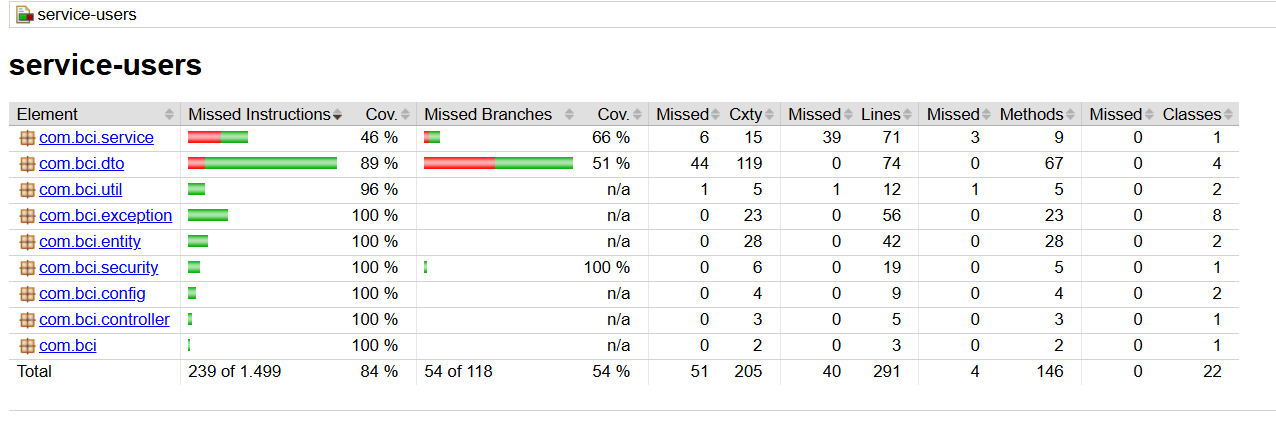
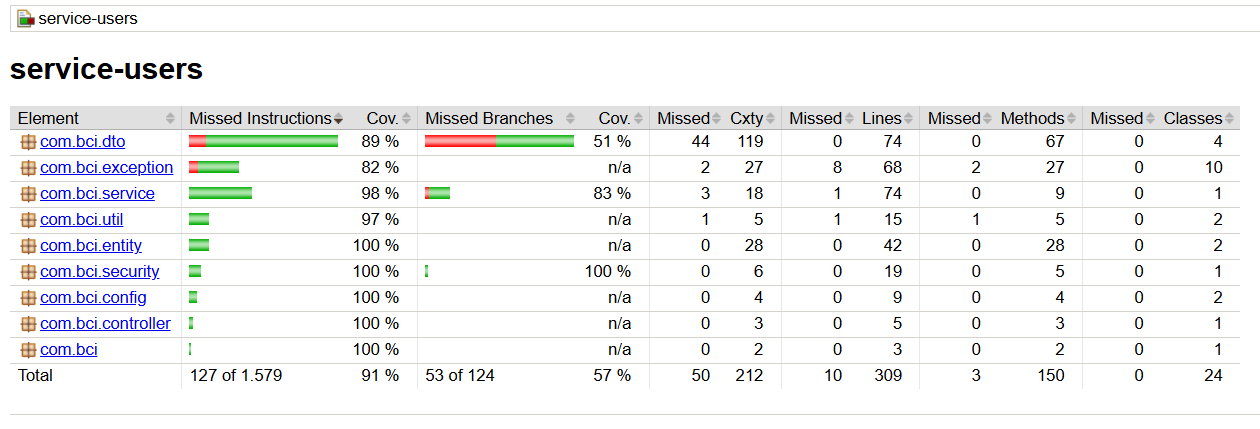
increasing test coverage

Changed region(s): [[0.0, 0.2121, 0.9905, 0.9091], [0.0, 0.0, 1.0, 0.0909], [0.0, 0.1212, 0.1857, 0.1818]]

diff --git a/service-users/src/test/java/com/bci/service/UserServiceTest.java b/service-users/src/test/java/com/bci/service/UserServiceTest.java
@@ -6,10 +6,14 @@ import static org.junit.jupiter.api.Assertions.assertThrows;
 import static org.junit.jupiter.api.Assertions.assertTrue;
 import static org.mockito.ArgumentMatchers.any;
 import static org.mockito.ArgumentMatchers.anyString;
+import static org.mockito.Mockito.doNothing;
+import static org.mockito.Mockito.doReturn;
 import static org.mockito.Mockito.when;
 
 import java.time.LocalDateTime;
 import java.util.Arrays;
+import java.util.Collections;
+import java.util.List;
 import java.util.Optional;
 import java.util.UUID;
 
@@ -18,27 +22,32 @@ import org.junit.jupiter.api.Test;
 import org.mockito.InjectMocks;
 import org.mockito.Mock;
 import org.mockito.MockitoAnnotations;
+import org.mockito.Spy;
 import org.springframework.security.crypto.bcrypt.BCryptPasswordEncoder;
 
+import com.bci.dto.LoginResponseDTO;
 import com.bci.dto.PhoneDTO;
 import com.bci.dto.UserDTO;
 import com.bci.dto.UserResponseDTO;
+import com.bci.entity.Phone;
 import com.bci.entity.User;
 import com.bci.exception.InvalidEmailFormatException;
 import com.bci.exception.InvalidPasswordFormatException;
 import com.bci.exception.InvalidTokenException;
+import com.bci.exception.TokenGenerationException;
 import com.bci.exception.UserAlreadyExistsException;
+import com.bci.exception.UserCreationException;
 import com.bci.exception.UserNotFoundException;
 import com.bci.repository.UserRepository;
 import com.bci.security.JwtUtil;
 import com.bci.util.Message;
-import com.bci.util.PatternConstants;
 
 public class UserServiceTest {
 
 	@Mock
 	private UserRepository userRepository;
 
+	@Spy
 	@InjectMocks
 	private UserService userService;
 
@@ -60,6 +69,90 @@ public class UserServiceTest {
 		userDTO.setName("Test User");
 		userDTO.setPhones(Arrays.asList(new PhoneDTO(1234567890L, 1, "1")));
 	}	
+	
+	@Test
+	void loginUser_shouldReturnLoginResponse_whenTokenIsValid() {
+	    // Arrange
+	    String bearerToken = "Bearer abc.def.ghi";
+	    String rawToken = "abc.def.ghi";
+	    UUID userId = UUID.randomUUID();
+
+	    User user = new User();
+	    user.setId(userId);
+	    user.setName("Jane Doe");
+	    user.setEmail("jane@example.com");
+	    user.setPassword("securePass123");
+	    user.setCreated(LocalDateTime.of(2023, 1, 1, 12, 0));
+	    user.setIsActive(true);
+
+	    Phone phone = new Phone();
+	    phone.setPhoneNumber(123456789L);
+	    phone.setCitycode(1);
+	    phone.setCountrycode("57");
+
+	    user.setPhones(List.of(phone));
+
+	    String newGeneratedToken = "new.jwt.token";
+
+	    // Mocks
+	    when(jwtUtil.extractUserId(rawToken)).thenReturn(userId);
+	    when(userRepository.findById(userId)).thenReturn(Optional.of(user));
+	    when(jwtUtil.generateToken(user)).thenReturn(newGeneratedToken);
+	    when(userRepository.save(any(User.class))).thenReturn(user);
+
+	    // Act
+	    LoginResponseDTO response = userService.loginUser(bearerToken);
+
+	    // Assert
+	    assertNotNull(response);
+	    assertEquals(userId, response.getId());
+	    assertEquals(user.getCreated(), response.getCreated());
+	    assertNotNull(response.getLastLogin());
+	    assertEquals(newGeneratedToken, response.getToken());
+	    assertTrue(response.getIsActive());
+	    assertEquals(user.getName(), response.getName());
+	    assertEquals(user.getEmail(), response.getEmail());
+	    assertEquals(user.getPassword(), response.getPassword());
+	    assertEquals(1, response.getPhones().size());
+	    assertEquals(phone.getPhoneNumber(), response.getPhones().get(0).getNumber());
+	    assertEquals(phone.getCitycode(), response.getPhones().get(0).getCitycode());
+	    assertEquals(phone.getCountrycode(), response.getPhones().get(0).getContrycode());
+	}
+	
+	@Test
+	public void testCreateUser_WithPhones() {
+	    // Arrange
+	    UserDTO userDTO = new UserDTO();
+	    userDTO.setName("John");
+	    userDTO.setEmail("john@example.com");
+	    userDTO.setPassword("password123");
+
+	    PhoneDTO phoneDTO = new PhoneDTO();
+	    phoneDTO.setNumber(123456789L);
+	    phoneDTO.setCitycode(1);
+	    phoneDTO.setContrycode("54");
+	    userDTO.setPhones(Collections.singletonList(phoneDTO));
+
+	    // Act
+	    User user = userService.createUser(userDTO);
+
+	    // Assert
+	    assertNotNull(user);
+	    assertEquals(userDTO.getName(), user.getName());
+	    assertEquals(userDTO.getEmail(), user.getEmail());
+	    assertTrue(user.getIsActive());
+	    assertNotNull(user.getCreated());
+	    assertNotNull(user.getLastLogin());
+
+	    assertNotNull(user.getPhones());
+	    assertEquals(1, user.getPhones().size());
+
+	    Phone phone = user.getPhones().get(0);
+	    assertEquals(phoneDTO.getNumber(), phone.getPhoneNumber());
+	    assertEquals(phoneDTO.getCitycode(), phone.getCitycode());
+	    assertEquals(phoneDTO.getContrycode(), phone.getCountrycode());
+	    assertEquals(user, phone.getUser()); // validamos la relación inversa
+	}
 	
 	// Test para loginUser con token inválido
     @Test
@@ -123,6 +216,59 @@ public class UserServiceTest {
         assertEquals(user.getCreated(), response.getCreated());
         assertEquals(user.getLastLogin(), response.getLastLogin());
         assertEquals(token, response.getToken());
+    }
+    
+    @Test
+    void registerUser_shouldThrowUserCreationException_whenUserIsNull() {
+        // Arrange
+        UserDTO userDTO = new UserDTO();
+        userDTO.setName("John");
+        userDTO.setEmail("john@example.com");
+        userDTO.setPassword("ValidPass123");
+
+        // Mock: createUser devuelve null
+        doReturn(null).when(userService).createUser(userDTO);
+
+        // Act & Assert
+        UserCreationException exception = assertThrows(UserCreationException.class, () -> {
+            userService.registerUser(userDTO);
+        });
+
+        assertEquals(Message.USER_CREATION_FAILED.getMessage(), exception.getMessage());
+    }
+    
+    @Test
+    void registerUser_shouldThrowTokenGenerationException_whenTokenIsNull() {
+        // Arrange
+        UserDTO userDTO = new UserDTO();
+        userDTO.setName("Jane");
+        userDTO.setEmail("jane@example.com");
+        userDTO.setPassword("ValidPass456");
+
+        User fakeUser = new User();
+        fakeUser.setEmail(userDTO.getEmail());
+        fakeUser.setPassword(userDTO.getPassword());
+        fakeUser.setName(userDTO.getName());
+
+        // No-op para validateUser
+        doNothing().when(userService).validateUser(userDTO);
+
+        // Simula que se crea un usuario válido
+        doReturn(fakeUser).when(userService).createUser(userDTO);
+
+        // Simula guardado en la BD
+        when(userRepository.save(any(User.class))).thenReturn(fakeUser);
+
+        // Simula fallo en generación de token
+        when(jwtUtil.generateToken(any(User.class))).thenReturn(null);
+
+        // Act & Assert
+        TokenGenerationException exception = assertThrows(
+            TokenGenerationException.class,
+            () -> userService.registerUser(userDTO)
+        );
+
+        assertEquals(Message.TOKEN_GENERATION_FAILED.getMessage(), exception.getMessage());
     }
 
 	@Test

diff --git a/service-users/src/main/java/com/bci/service/UserService.java b/service-users/src/main/java/com/bci/service/UserService.java
@@ -1,7 +1,6 @@
 package com.bci.service;
 
 import java.time.LocalDateTime;
-import java.util.ArrayList;
 import java.util.List;
 import java.util.Optional;
 import java.util.UUID;
@@ -20,7 +19,9 @@ import com.bci.entity.User;
 import com.bci.exception.InvalidEmailFormatException;
 import com.bci.exception.InvalidPasswordFormatException;
 import com.bci.exception.InvalidTokenException;
+import com.bci.exception.TokenGenerationException;
 import com.bci.exception.UserAlreadyExistsException;
+import com.bci.exception.UserCreationException;
 import com.bci.exception.UserNotFoundException;
 import com.bci.repository.UserRepository;
 import com.bci.security.JwtUtil;
@@ -44,15 +45,18 @@ public class UserService {
 	public UserResponseDTO registerUser(UserDTO userDTO) {
 		validateUser(userDTO);
 		User user = createUser(userDTO);
-		List<Phone> phones = mapPhoneDTOsToEntities(userDTO.getPhones(), user);
-		user.setPhones(phones);
+		if (user == null) {
+	        throw new UserCreationException(Message.USER_CREATION_FAILED.getMessage());
+	    }
 		userRepository.save(user);
 		String token = jwtUtil.generateToken(user);
+		if (token == null) {
+	        throw new TokenGenerationException(Message.TOKEN_GENERATION_FAILED.getMessage());
+	    }
 		return createResponse(user, token);
 	}
 
-	// Validaciones extraídas a un método separado
-	private void validateUser(UserDTO userDTO) {
+	void validateUser(UserDTO userDTO) {
 		if (!PatternConstants.EMAIL_PATTERN.matcher(userDTO.getEmail()).matches()) {
 			throw new InvalidEmailFormatException(Message.FORMATO_EMAIL_INVALIDO.getMessage());
 		}
@@ -72,6 +76,19 @@ public class UserService {
 		user.setIsActive(true);
 		user.setCreated(LocalDateTime.now());
 		user.setLastLogin(LocalDateTime.now());
+
+		if (userDTO.getPhones() != null && !userDTO.getPhones().isEmpty()) {
+			List<Phone> phones = userDTO.getPhones().stream().map(phoneDTO -> {
+				Phone phone = new Phone();
+				phone.setPhoneNumber(phoneDTO.getNumber());
+				phone.setCitycode(phoneDTO.getCitycode());
+				phone.setCountrycode(phoneDTO.getContrycode());
+				phone.setUser(user);
+				return phone;
+			}).collect(Collectors.toList());
+			user.setPhones(phones);
+		}
+
 		return user;
 	}
 
@@ -85,19 +102,6 @@ public class UserService {
 		return responseDTO;
 	}
 
-	private List<Phone> mapPhoneDTOsToEntities(List<PhoneDTO> phoneDTOs, User user) {
-		List<Phone> phones = new ArrayList<>();
-		for (PhoneDTO phoneDTO : phoneDTOs) {
-			Phone phone = new Phone();
-			phone.setPhoneNumber(phoneDTO.getNumber());
-			phone.setCitycode(phoneDTO.getCitycode());
-			phone.setCountrycode(phoneDTO.getContrycode());
-			phone.setUser(user);
-			phones.add(phone);
-		}
-		return phones;
-	}
-
 	public LoginResponseDTO loginUser(String token) {
 		if (token == null || !token.startsWith("Bearer ")) {
 			throw new InvalidTokenException(Message.TOKEN_INVALIDO.getMessage());
@@ -108,9 +112,10 @@ public class UserService {
 		UUID userId = jwtUtil.extractUserId(token);
 
 		Optional<User> userOptional = userRepository.findById(userId);
-		User user = userOptional.orElseThrow(() -> new UserNotFoundException(Message.USUARIO_NO_ENCONTRADO.getMessage()));
+		User user = userOptional
+				.orElseThrow(() -> new UserNotFoundException(Message.USUARIO_NO_ENCONTRADO.getMessage()));
 
-		String newToken = jwtUtil.generateToken(user);		
+		String newToken = jwtUtil.generateToken(user);
 		user.setLastLogin(LocalDateTime.now());
 		userRepository.save(user);
 

diff --git a/service-users/src/main/java/com/bci/exception/GlobalExceptionHandler.java b/service-users/src/main/java/com/bci/exception/GlobalExceptionHandler.java
@@ -1,5 +1,6 @@
 package com.bci.exception;
 
+import java.time.LocalDateTime;
 import java.util.List;
 import java.util.stream.Collectors;
 
@@ -53,6 +54,22 @@ public class GlobalExceptionHandler {
 		ErrorResponse response = new ErrorResponse();
 		response.setError(List.of(detail));
 		return ResponseEntity.status(HttpStatus.INTERNAL_SERVER_ERROR).body(response);
+	}
+	
+	@ExceptionHandler(UserCreationException.class)
+	public ResponseEntity<ErrorResponse> handleUserCreationException(UserCreationException ex) {
+	    ErrorDetail detail = new ErrorDetail(HttpStatus.INTERNAL_SERVER_ERROR.value(), ex.getMessage());
+	    ErrorResponse response = new ErrorResponse();
+	    response.setError(List.of(detail));
+	    return ResponseEntity.status(HttpStatus.INTERNAL_SERVER_ERROR).body(response);
+	}
+
+	@ExceptionHandler(TokenGenerationException.class)
+	public ResponseEntity<ErrorResponse> handleTokenGenerationException(TokenGenerationException ex) {
+	    ErrorDetail detail = new ErrorDetail(HttpStatus.INTERNAL_SERVER_ERROR.value(), ex.getMessage());
+	    ErrorResponse response = new ErrorResponse();
+	    response.setError(List.of(detail));
+	    return ResponseEntity.status(HttpStatus.INTERNAL_SERVER_ERROR).body(response);
 	}
 
 }

diff --git a/service-users/src/main/java/com/bci/util/Message.java b/service-users/src/main/java/com/bci/util/Message.java
@@ -4,9 +4,11 @@ public enum Message {
 
 	USUARIO_YA_REGISTRADO("Usuario ya registrado."),
 	FORMATO_EMAIL_INVALIDO("El formato del correo electrónico no es válido. Formato correcto aaaaaaa@undominio.algo"),
-	FORMATO_CLAVE_INVALIDO(
-			"La clave no cumple con el formato requerido. Debe tener al menos una mayúscula, exactamente dos números y entre 8 y 12 caracteres."),
-	USUARIO_NO_ENCONTRADO("Usuario no encontrado."), TOKEN_INVALIDO("Token no proporcionado o inválido.");
+	FORMATO_CLAVE_INVALIDO("La clave no cumple con el formato requerido. Debe tener al menos una mayúscula, exactamente dos números y entre 8 y 12 caracteres."),
+	USUARIO_NO_ENCONTRADO("Usuario no encontrado."), 
+	USER_CREATION_FAILED("Error al crear el usuario"),
+	TOKEN_INVALIDO("Token no proporcionado o inválido."),
+	TOKEN_GENERATION_FAILED("Error al generar el token");
 
 	private final String message;
 

diff --git a/service-users/src/main/java/com/bci/exception/TokenGenerationException.java b/service-users/src/main/java/com/bci/exception/TokenGenerationException.java
@@ -1,0 +1,10 @@
+package com.bci.exception;
+
+public class TokenGenerationException extends RuntimeException {
+
+	private static final long serialVersionUID = 1L;
+
+	public TokenGenerationException(String message) {
+		super(message);
+	}
+}

diff --git a/service-users/src/main/java/com/bci/exception/UserCreationException.java b/service-users/src/main/java/com/bci/exception/UserCreationException.java
@@ -1,0 +1,10 @@
+package com.bci.exception;
+
+public class UserCreationException extends RuntimeException {
+
+	private static final long serialVersionUID = 1L;
+
+	public UserCreationException(String message) {
+		super(message);
+	}
+}
